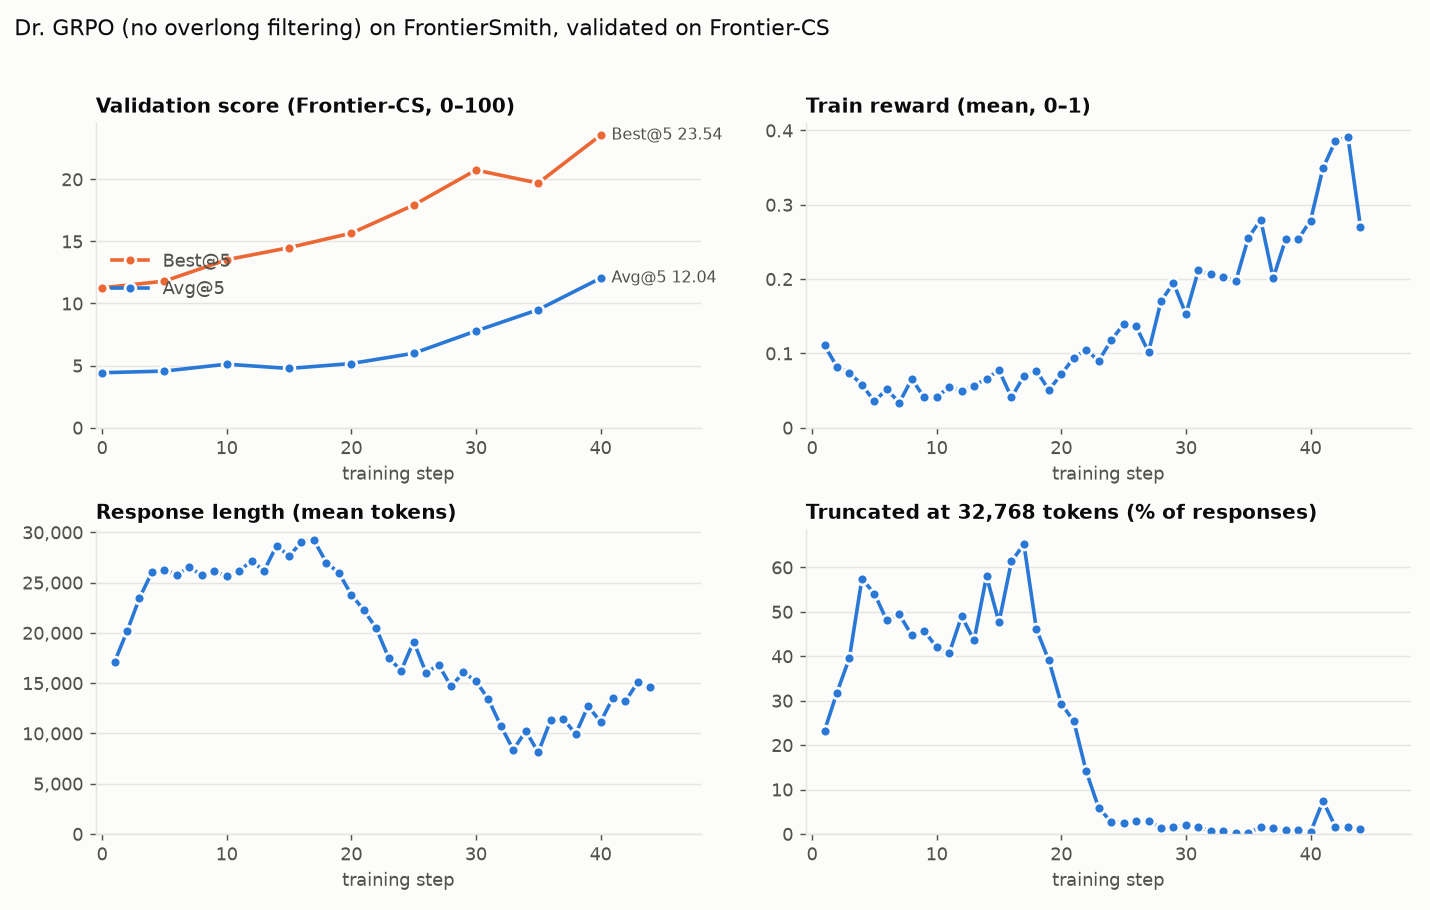
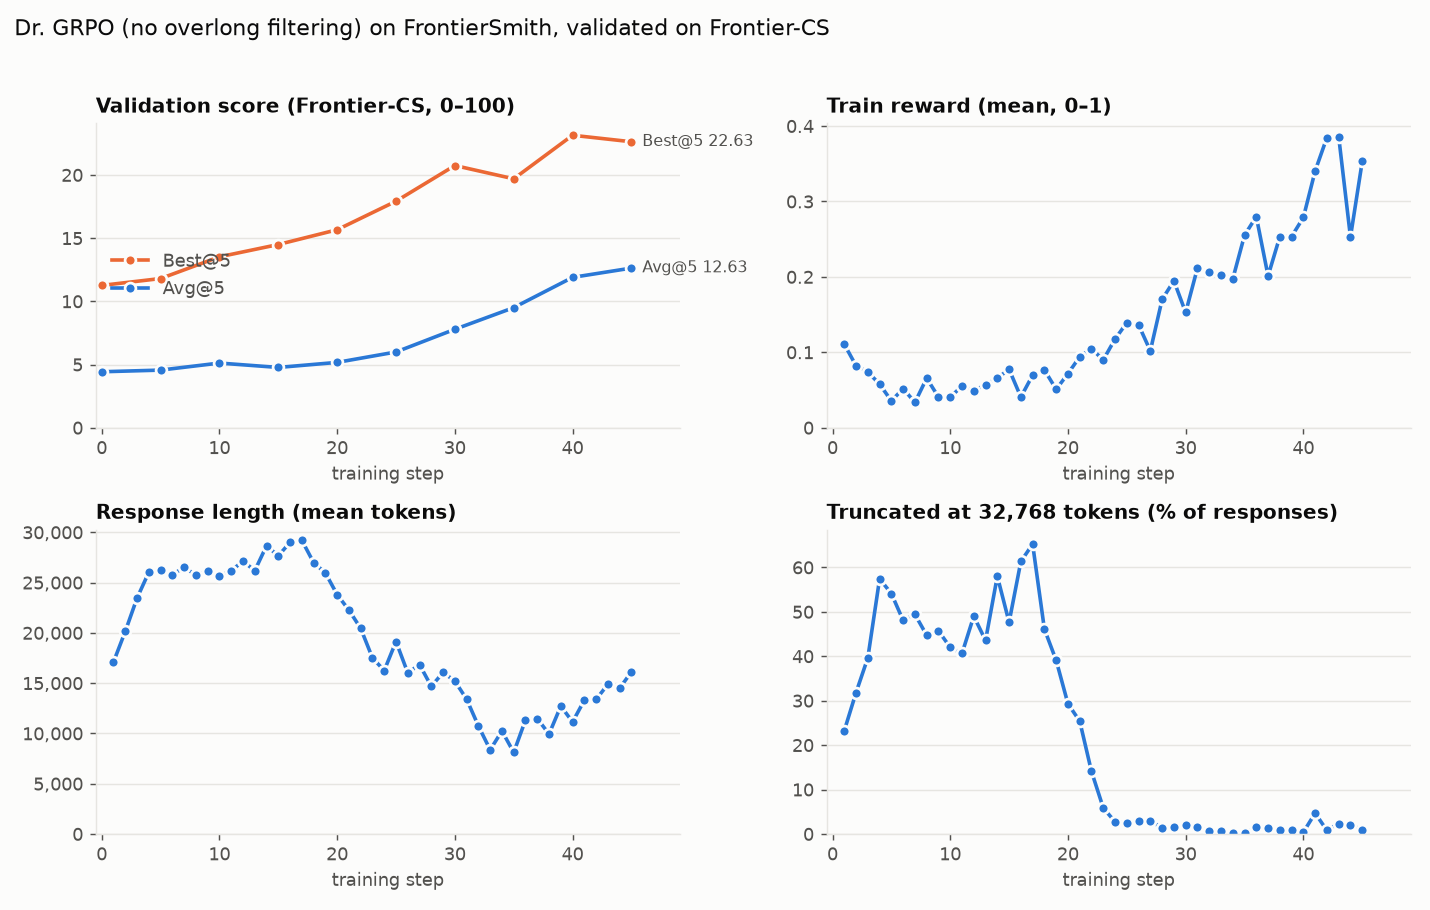
results: Dr. GRPO validation through step 45

diff --git a/results/frontiercs_dr_grpo/README.md b/results/frontiercs_dr_grpo/README.md
@@ -5,7 +5,7 @@ A Dr. GRPO baseline for the FrontierSmith/Frontier-CS setting of this branch, ru
 filtering, as in the Dr. GRPO paper ([Liu et al., 2025](https://arxiv.org/abs/2503.20783)).
 
 <!-- status:begin -->
-**Status: in progress** — step 44/240, last validation at step 40; about 31 h left (7.4 min per step over the last 5 steps, 11 min per validation), finishing around Nov 10 23:37 PT. The tables and curves are updated at every validation (every 5 steps).
+**Status: in progress** — step 45/240, last validation at step 45; about 31 h left (7.4 min per step over the last 5 steps, 11 min per validation), finishing around Nov 11 04:41 PT. The tables and curves are updated at every validation (every 5 steps).
 <!-- status:end -->
 
 ## Setup
@@ -56,7 +56,8 @@ bootstrap estimate and comes out lower; it is kept in `val_curve.csv` as `verl_b
 | 25 | 5.99 | 17.92 | 0.139 | 19,136 | 2.5% |
 | 30 | 7.79 | 20.75 | 0.153 | 15,205 | 2.0% |
 | 35 | 9.50 | 19.69 | 0.255 | 8,109 | 0.2% |
-| 40 | 12.04 | 23.54 | 0.279 | 11,140 | 0.4% |
+| 40 | 11.90 | 23.14 | 0.279 | 11,140 | 0.4% |
+| 45 | 12.63 | 22.63 | 0.353 | 16,121 | 1.0% |
 <!-- results:end -->
 
 ![Validation and training curves](curves.png)
